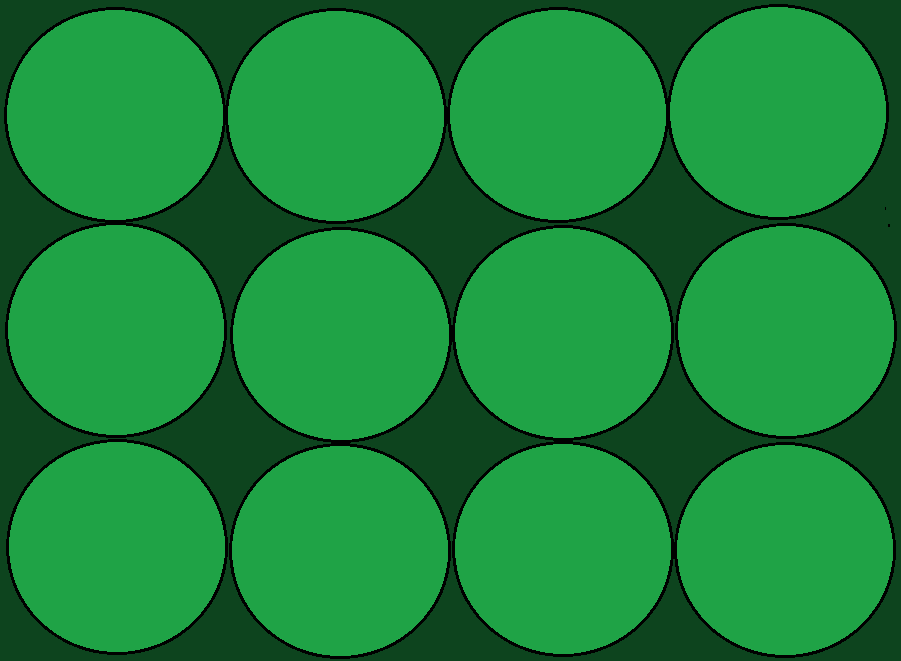
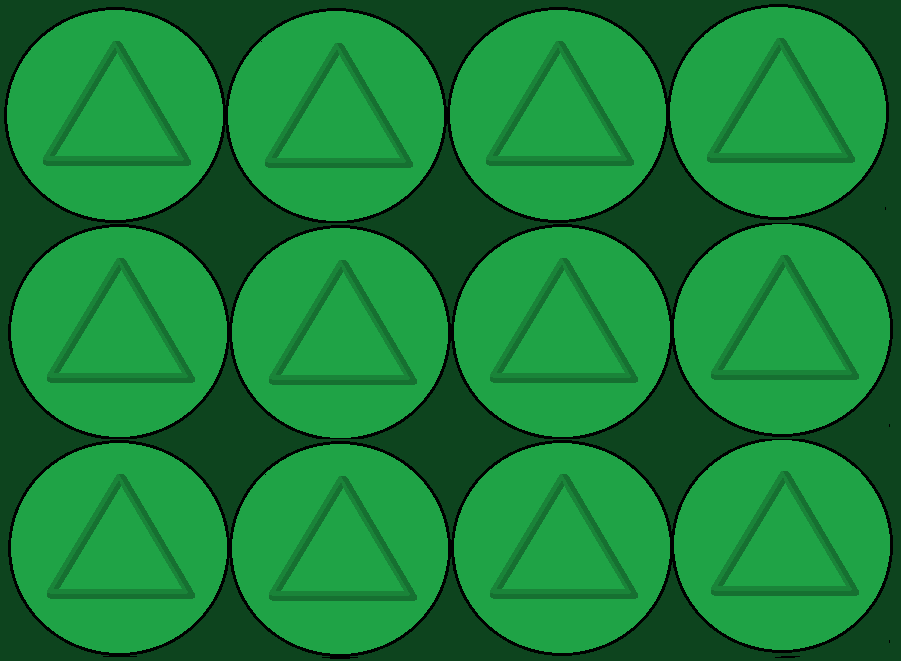
Changed piece models and textures

diff --git a/TP3/src/game/MyPiece.js b/TP3/src/game/MyPiece.js
@@ -3,7 +3,23 @@ class MyPiece extends CGFobject {
         super(scene);
         this.colour = colour;
         this.tile = null;
-        this.obj = new MyCylinder(this.scene, 0.2, 0.4, 0.4, 20, 5);
+        this.cylinder = new MyCylinder(this.scene, 0.2, 0.4, 0.4, 20, 5);  
+        switch(colour) {
+            case "purple":
+                this.symbol = new MyTorus(this.scene, 0.05, 0.3, 6, 4);
+                this.symbolRot = Math.PI/4;
+                break;
+            case "orange":
+                this.symbol = new MyTorus(this.scene, 0.05, 0.25, 6, 20);
+                this.symbolRot = 0;
+                break;
+            case "green":
+                this.symbol = new MyTorus(this.scene, 0.05, 0.3, 4, 3);
+                this.symbolRot = -Math.PI/6;
+                break;
+            case "grey":
+                break;
+        }
         this.animation = null;
     }
 
@@ -25,7 +41,12 @@ class MyPiece extends CGFobject {
             if(this.animation != null) 
                 this.animation.apply();
                 
-            this.obj.display();
+            this.cylinder.display();
+
+            this.scene.translate(0, 0, 0.2);
+            this.scene.rotate(this.symbolRot, 0,0,1);
+            this.symbol.display();
+
             this.scene.popMatrix();
         }
     }

diff --git a/TP3/src/game/MyScorePiece.js b/TP3/src/game/MyScorePiece.js
@@ -5,7 +5,10 @@ class MyScorePiece extends MyPiece {
 
     display(colours) {
         colours[this.colour].bind();
-        this.obj.display();
+        this.cylinder.display();
+        this.scene.translate(0, 0, 0.2);
+        this.scene.rotate(this.symbolRot, 0,0,1);
+        this.symbol.display();
         colours[this.colour].unbind();
     }
 }
